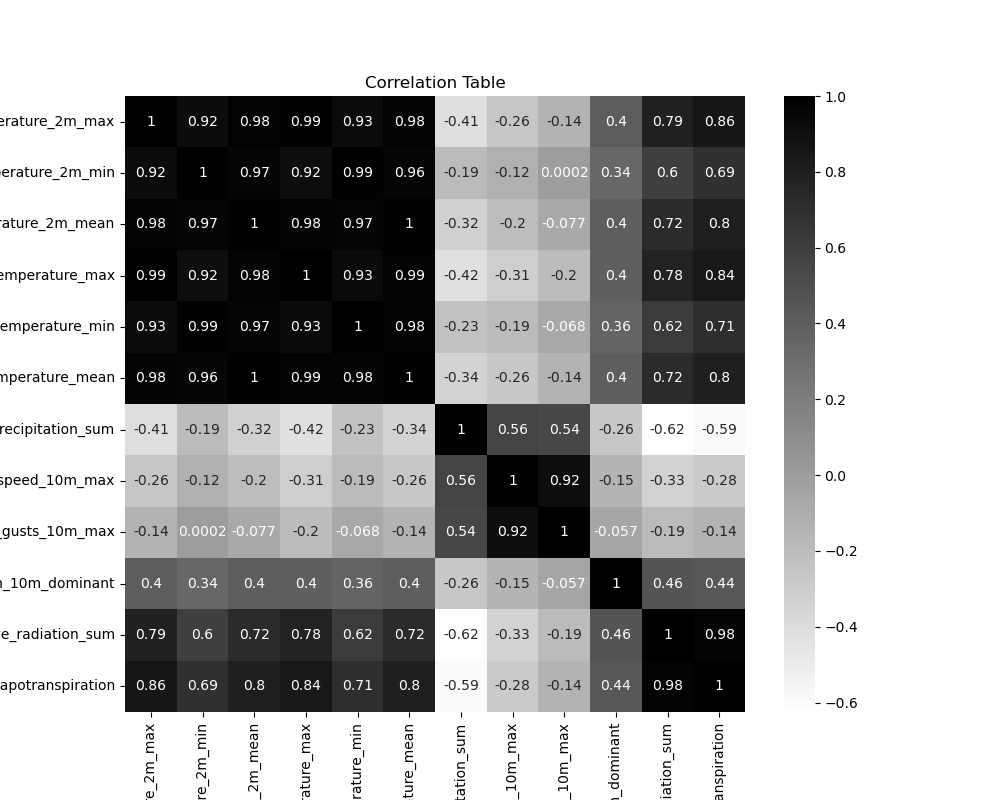
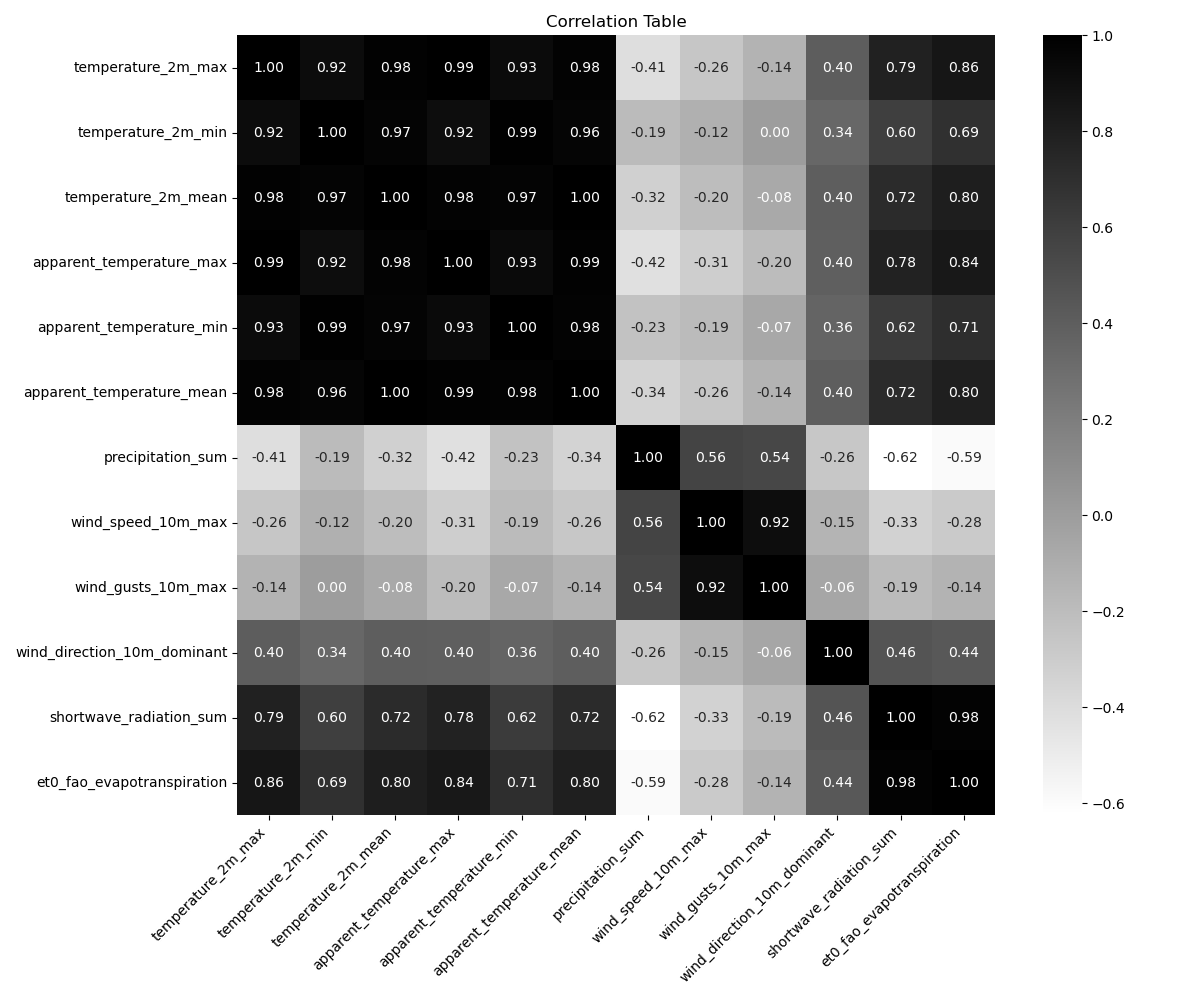
make the correlation table looks nicer

diff --git a/scripts/eda.py b/scripts/eda.py
@@ -47,9 +47,12 @@ def main(data_file, plot_to):
 
     # Generate and save correlation table
     correlation_table = precipit_df[numeric_cols].corr(method='spearman')
-    plt.figure(figsize=(10, 8))
-    sns.heatmap(correlation_table, annot=True, cmap="gist_yarg")
+    plt.figure(figsize=(12, 10))
+    sns.heatmap(correlation_table, annot=True, cmap="gist_yarg", fmt=".2f")
+    plt.xticks(rotation=45, ha='right', fontsize=10)
+    plt.yticks(fontsize=10)
     plt.title("Correlation Table")
+    plt.tight_layout()
     plt.savefig(os.path.join(plot_to, "correlation_heatmap.png"))
 
     
